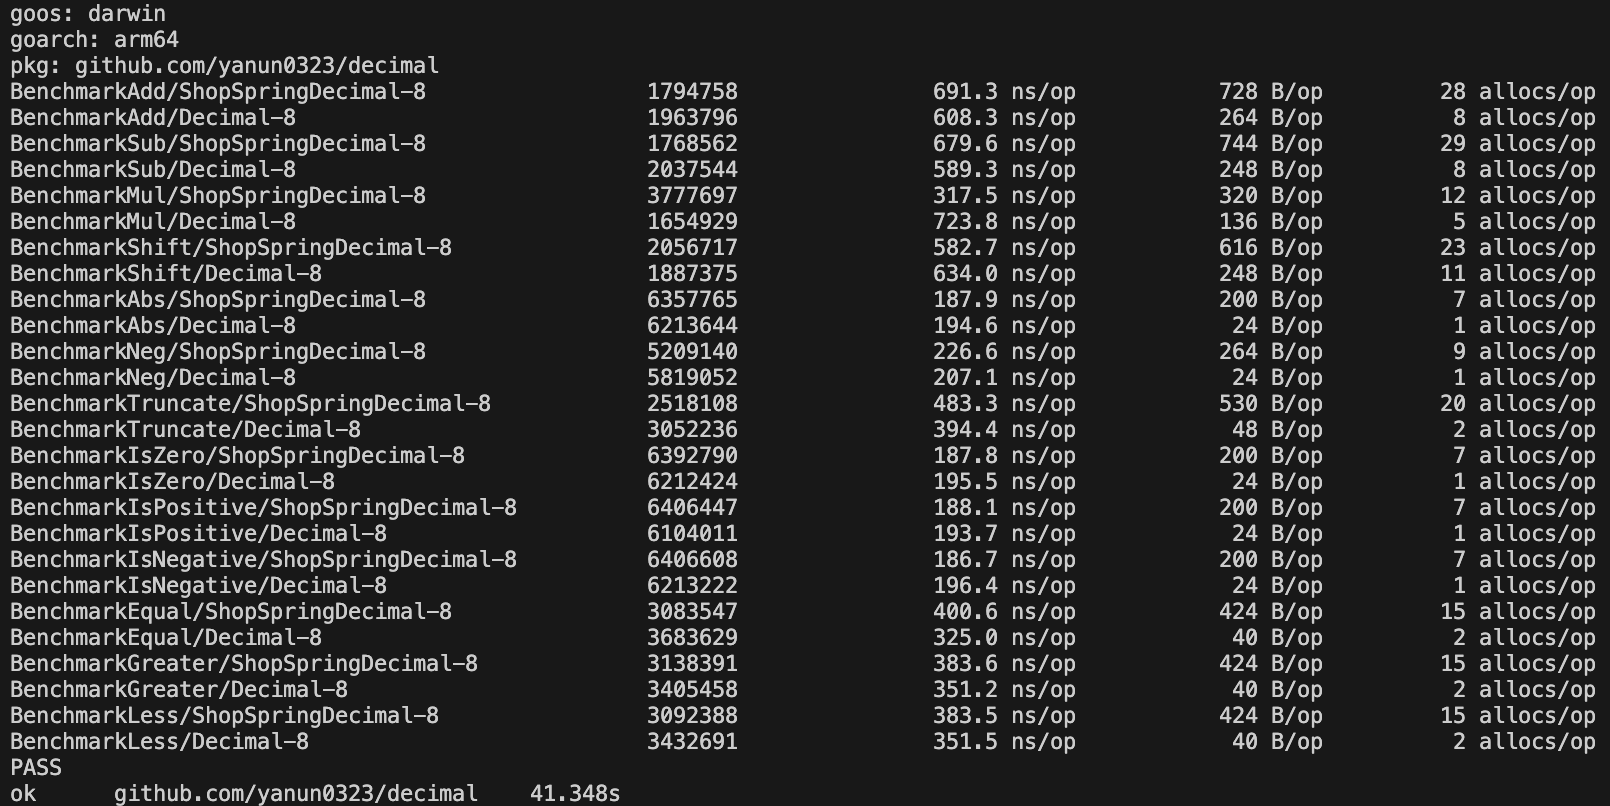
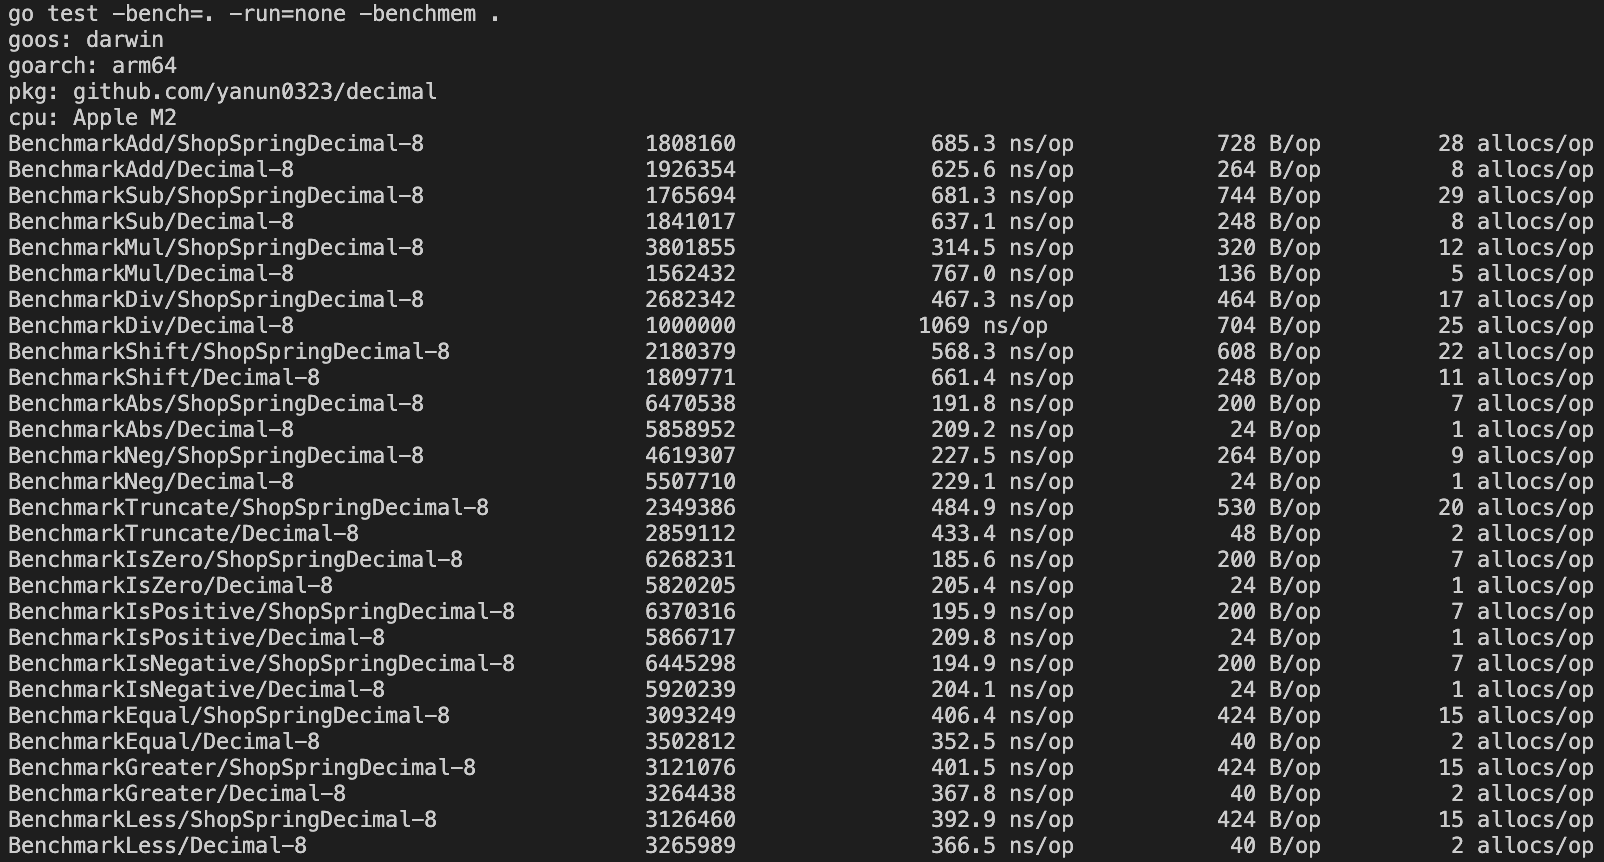
chore: update readme

diff --git a/decimal_bench_test.go b/decimal_bench_test.go
@@ -13,22 +13,29 @@ const (
 	_operatorAddition = "789.00456888"
 )
 
-func BenchmarkNew(b *testing.B) {
-	b.SkipNow()
-	for i := 0; i < b.N; i++ {
-		b, _ := New(_operatorBase)
-		_ = b
-	}
-}
-
-func Run(b *testing.B, shop, dec func(b *testing.B)) {
+func Run(b *testing.B, shopSprintDecimal, stringDecimal func(b *testing.B)) {
 	b.Run("ShopSpringDecimal", func(b *testing.B) {
-		shop(b)
+		shopSprintDecimal(b)
 	})
 
 	b.Run("Decimal", func(b *testing.B) {
-		dec(b)
+		stringDecimal(b)
 	})
+}
+
+func BenchmarkNewFromString(b *testing.B) {
+	Run(b,
+		func(b *testing.B) {
+			for i := 0; i < b.N; i++ {
+				_, _ = decimal.NewFromString(_operatorBase)
+			}
+		},
+		func(b *testing.B) {
+			for i := 0; i < b.N; i++ {
+				_, _ = New(_operatorBase)
+			}
+		},
+	)
 }
 
 func BenchmarkAdd(b *testing.B) {

diff --git a/decimal_test.go b/decimal_test.go
@@ -1300,7 +1300,7 @@ func (su *DecimalSuite) TestDiv() {
 		su.T().Run(tc.desc, func(t *testing.T) {
 			t.Log(tc.desc)
 			result := tc.d1.Div(tc.d2)
-			su.Equal(tc.expected, result.String())
+			su.Equal(tc.expected, result.String(), "%s / %s should be %s, but got %s", tc.d1, tc.d2, tc.expected, result.String())
 		})
 	}
 }

diff --git a/README.md b/README.md
@@ -1,10 +1,15 @@
 # Decimal
-A high efficient decimal base on string type.
+
+A high memory optimized decimal library for Go.
+
+Check the [benchmark](./README.md#benchmark) for more details.
 
 ## Requirements
+
 #### _GO 1.21 or higher_
 
 ## Import
+
 ```go
 import "github.com/yanun0323/decimal"
 ```
@@ -17,19 +22,19 @@ import "github.com/yanun0323/decimal"
 - JSON and XML serialization/deserialization as string
 
 ## Supported
+
 - Initial from string
 - Addition
 - Subtraction
 - Multiplication
+- Division _unoptimized_
 - Negative
 - Truncate
 - Shift
 - Compare like equal, greater, less, greater or equal, less or equal
 
-## Unsupported Operation
-- Division
-
 ## Usage
+
 ```go
 // create decimal
 zero := decimal.Zero()
@@ -77,10 +82,61 @@ result := d1.Sub(d2).Shift(-5).Add(d1).Truncate(3).String()
 ```
 
 ## Benchmark
+
 Compare to [github.com/shopspring/decimal](https://github.com/shopspring/decimal)
+
+_All the benchmark start from the `NewFromString` function, please check the [benchmark.go](./decimal_bench_test.go) for more details._
+
+### Memory
+
+> smaller is better
+
+| Operation                  | _yanun0323/decimal_ | _shopspring/decimal_ |
+| -------------------------- | ------------------- | -------------------- |
+| Addition                   | 264 B/op            | 728 B/op             |
+| Subtract                   | 248 B/op            | 744 B/op             |
+| Multiply                   | 136 B/op            | 320 B/op             |
+| Division</br>_Unoptimized_ | 704 B/op            | 484 B/op             |
+| Shift                      | 248 B/op            | 608 B/op             |
+| Abs                        | 24 B/op             | 200 B/op             |
+| Neg                        | 24 B/op             | 264 B/op             |
+| Truncate                   | 48 B/op             | 530 B/op             |
+| IsZero                     | 24 B/op             | 200 B/op             |
+| IsPositive                 | 24 B/op             | 200 B/op             |
+| IsNegative                 | 24 B/op             | 200 B/op             |
+| Equal                      | 40 B/op             | 424 B/op             |
+| Greater                    | 40 B/op             | 424 B/op             |
+| Less                       | 40 B/op             | 424 B/op             |
+
+### Speed
+
+> smaller is better
+
+| Operation                  | _yanun0323/decimal_ | _shopspring/decimal_ |
+| -------------------------- | ------------------- | -------------------- |
+| Addition                   | 625.6 ns/op         | 685.3 ns/op          |
+| Subtract                   | 637.1 ns/op         | 681.3 ns/op          |
+| Multiply                   | 767.0 ns/op         | 314.5 ns/op          |
+| Division</br>_Unoptimized_ | 1069 ns/op          | 467.3 ns/op          |
+| Shift                      | 661.4 ns/op         | 568.3 ns/op          |
+| Abs                        | 209.2 ns/op         | 191.8 ns/op          |
+| Neg                        | 229.1 ns/op         | 270.1 ns/op          |
+| Truncate                   | 433.4 ns/op         | 484.9 ns/op          |
+| IsZero                     | 205.4 ns/op         | 185.6 ns/op          |
+| IsPositive                 | 209.8 ns/op         | 195.9 ns/op          |
+| IsNegative                 | 204.1 ns/op         | 194.9 ns/op          |
+| Equal                      | 352.5 ns/op         | 406.4 ns/op          |
+| Greater                    | 367.8 ns/op         | 401.5 ns/op          |
+| Less                       | 366.5 ns/op         | 392.9 ns/op          |
+
+### Conclusion
+
 > CPU usage almost same or less than `shopspring/decimal`
-> (except multiplication)
+> (except multiplication/division)
 >
 > Memory usage less than half of `shopspring/decimal`
+> (except multiplication/division)
+
+### Reference
 
 ![Benchmark](./benchmark.png)
